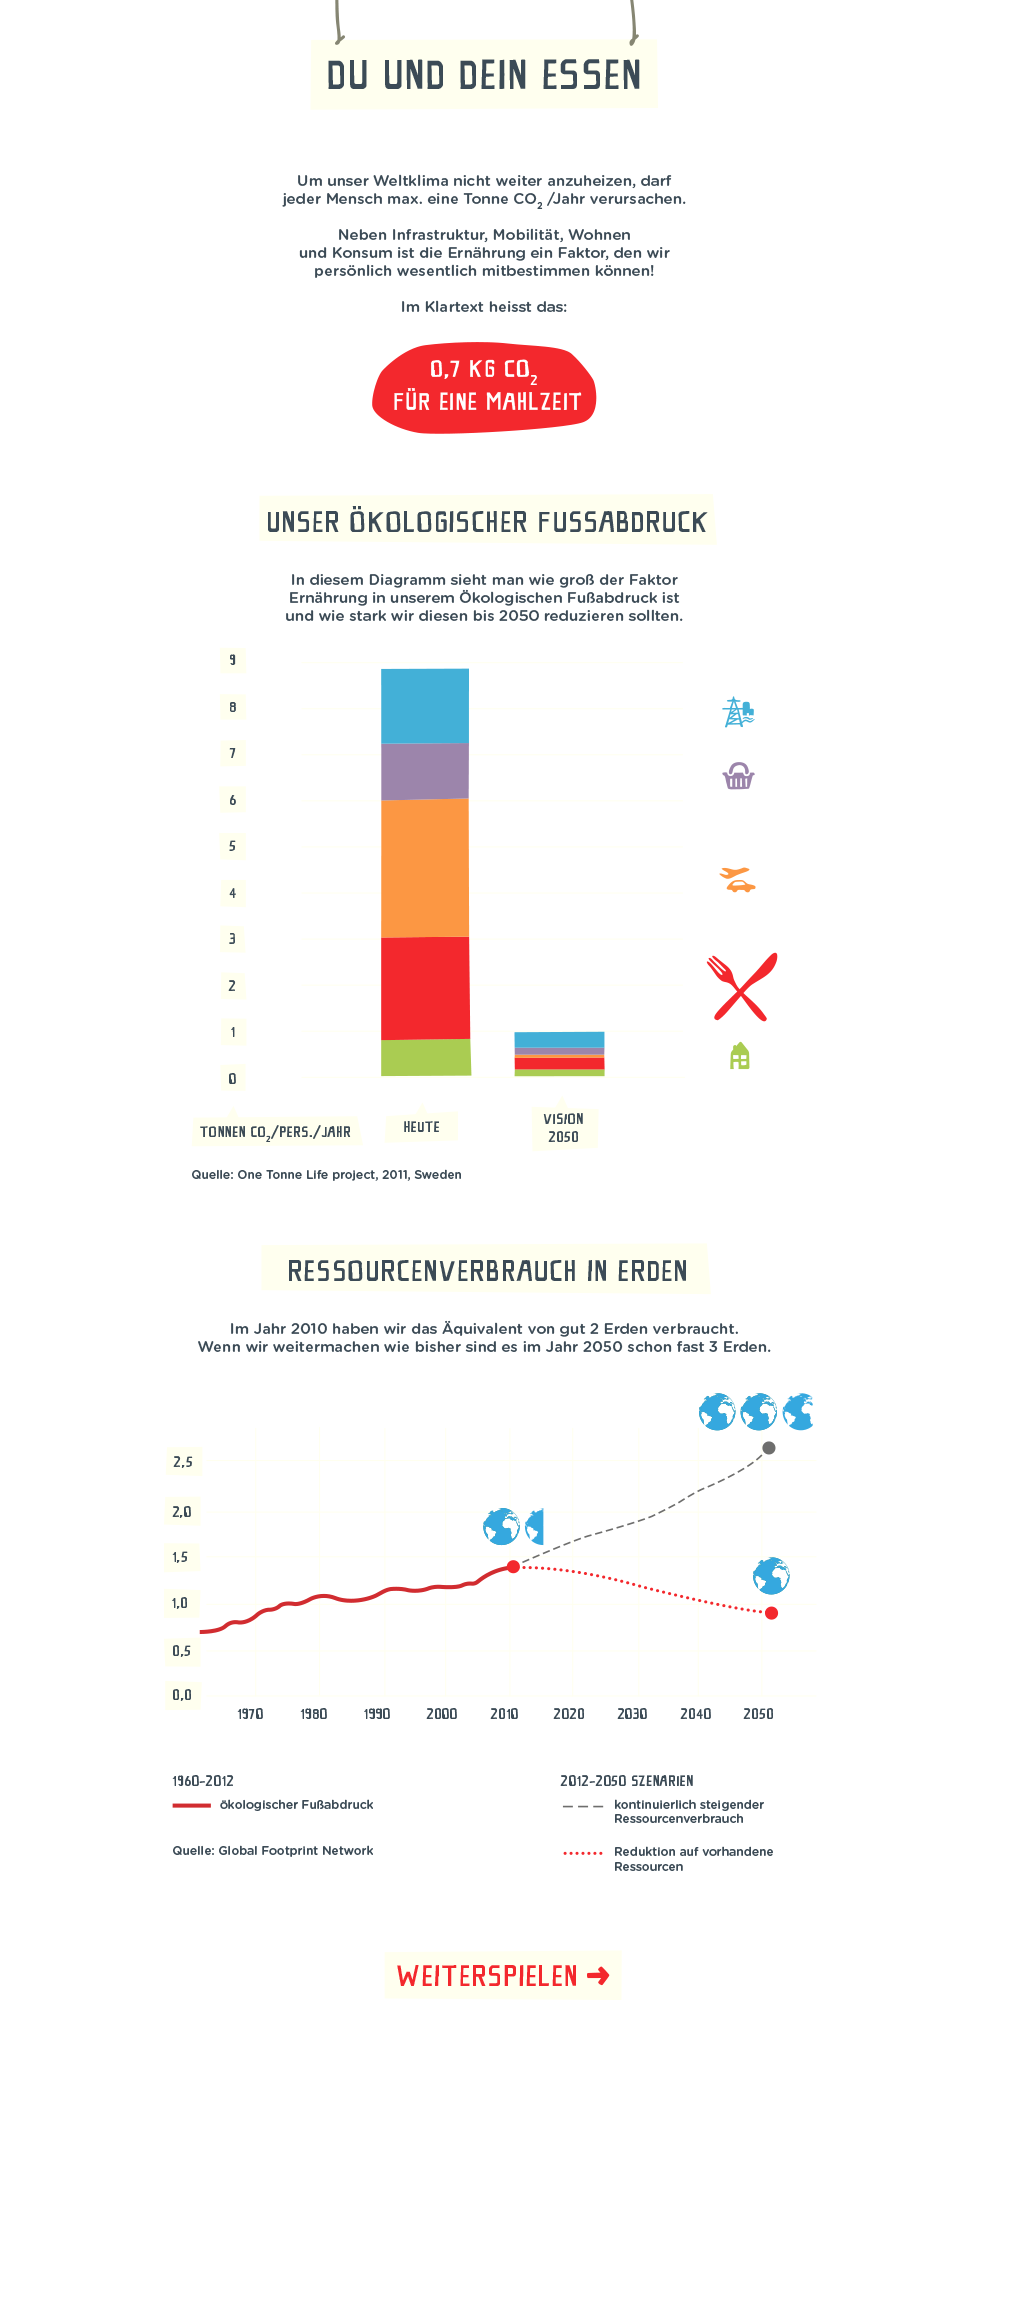
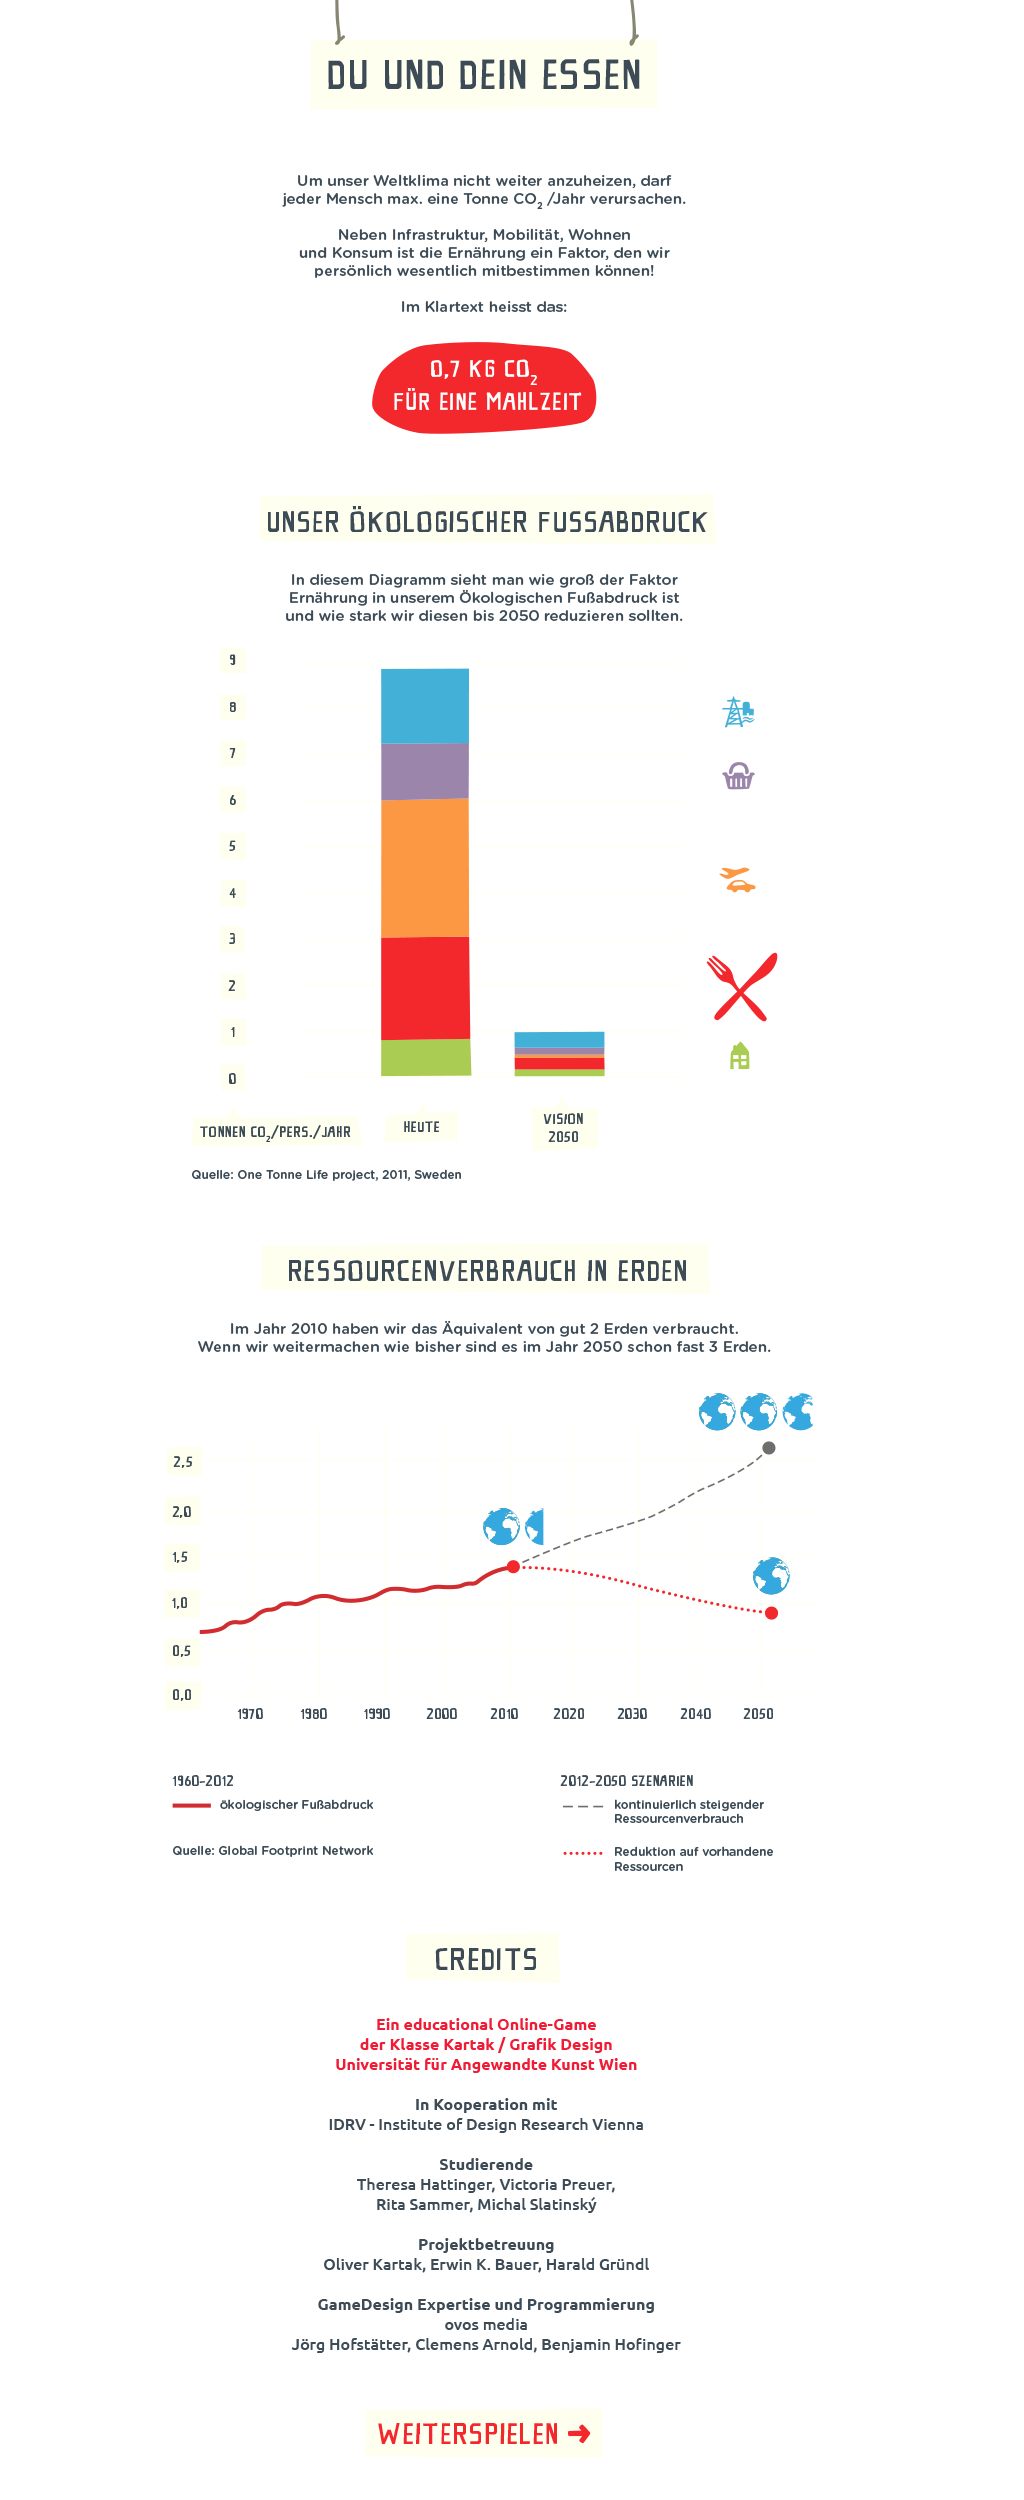
infoseite

diff --git a/css/main.css b/css/main.css
@@ -263,7 +263,7 @@ body {
 
 #infopage {
     width: 1024px;
-    height: 2050px;
+    height: 2500px;
     position: absolute;
     top: 0;
     left: 50%;
